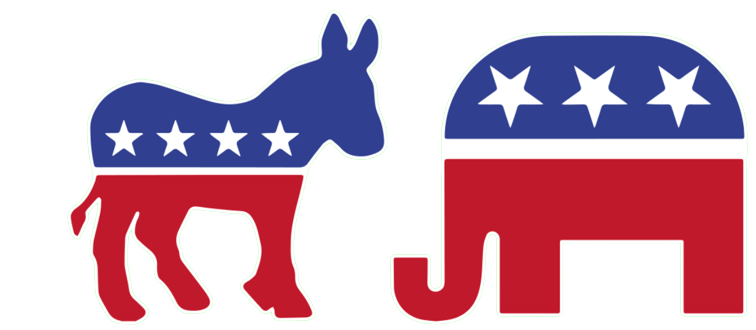
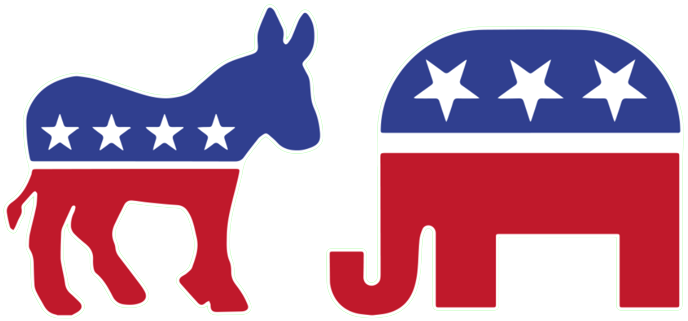
Add img

Changed region(s): [[0.0, 0.0, 0.5189, 0.9969], [0.4578, 0.4673, 1.0, 0.9969], [0.5494, 0.0623, 1.0, 0.4361]]

diff --git a/src/Partisanship.svelte b/src/Partisanship.svelte
@@ -3,6 +3,7 @@
 
 <main>
 	<h3>Partisanship</h3>
+	<img src="./dem_repub_small_nobg.png" height="89" class="center" />
 	<div id="bar">
 		<div id="gradient" />
 		<span class="line" />
@@ -13,6 +14,14 @@
 	h3 {
 		text-align: center;
 	}
+
+	.center {
+		display: block;
+		margin-left: auto;
+		margin-right: auto;
+		margin-bottom: 1em;
+	}
+
 	#bar {
 		width: 100;
 		position: relative;
